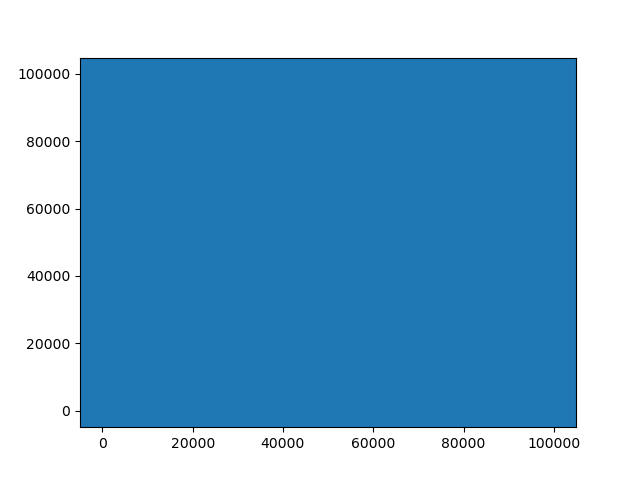
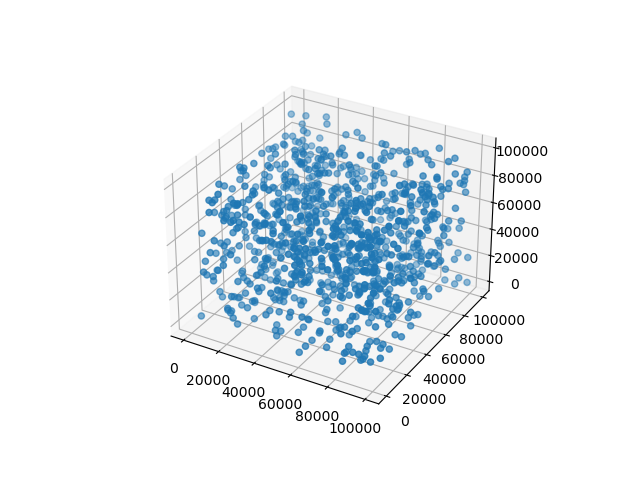
Fix plot

diff --git a/day8/checkdata.py b/day8/checkdata.py
@@ -10,7 +10,8 @@ with open('input', 'r') as f:
     print(f"Biggest Coord: {max([max(v) for v in vectors])}.")
     print(f"Smallest Coord: {min([min(v) for v in vectors])}.")
 
-fig, ax = plt.subplots()
+fig = plt.figure()
+ax = fig.add_subplot(111, projection='3d')
 
 ax.scatter(*zip(*vectors))
 plt.savefig('space.png')
